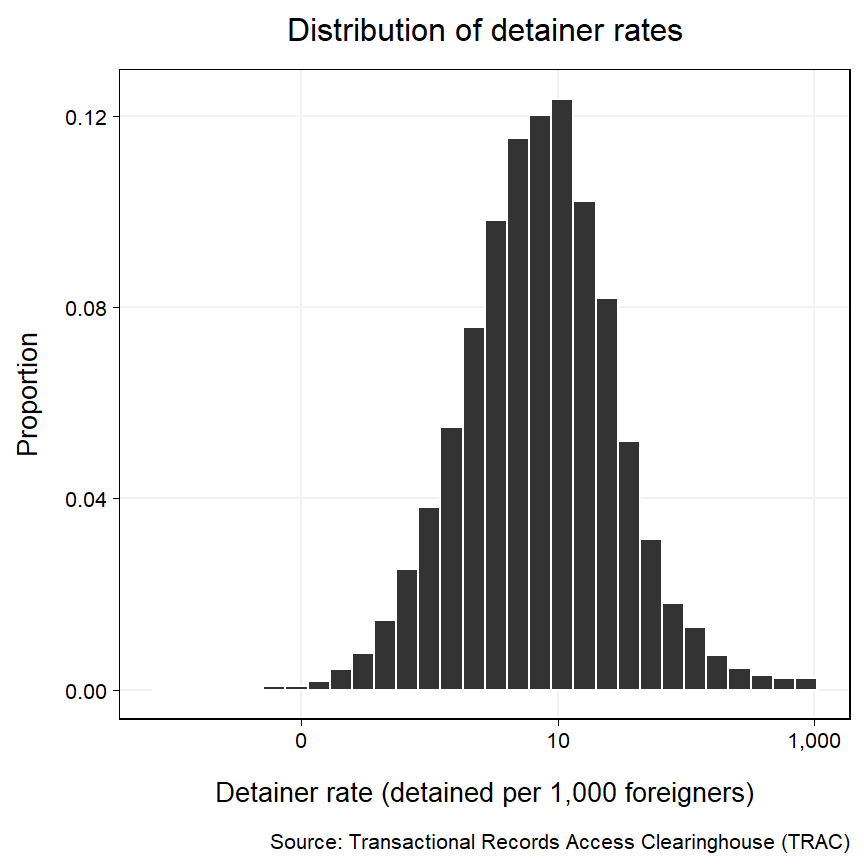
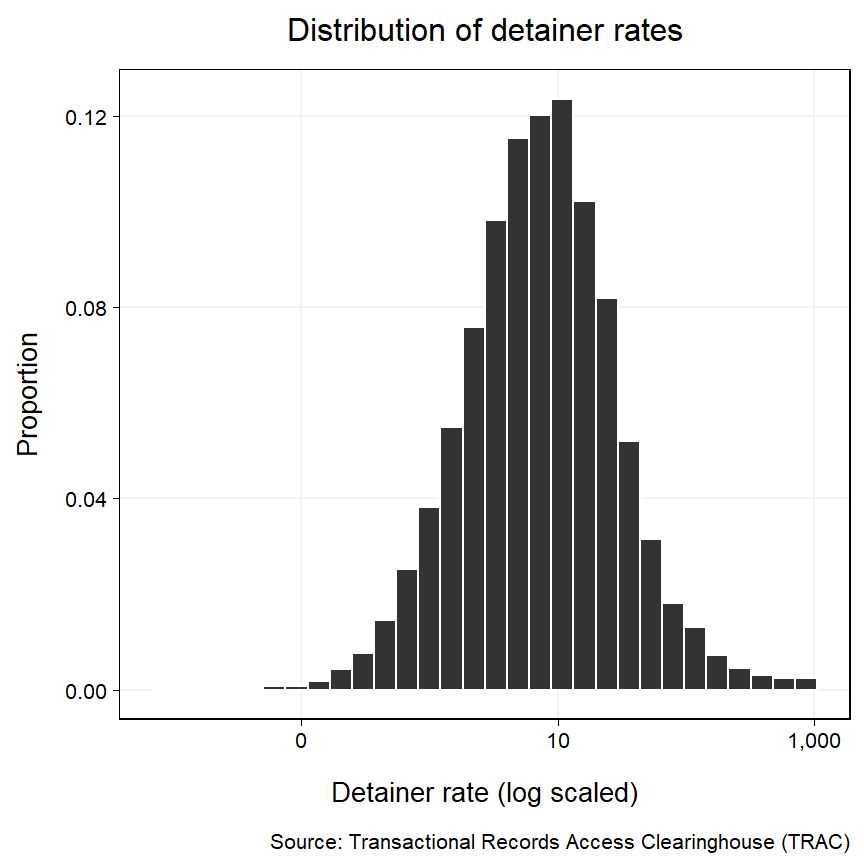
Added "(log scale)" to graphs reflecting the detainer rate; Added missing description of the bivariate plot.

Changed region(s): [[0.25, 0.9062, 0.875, 0.9375]]

diff --git a/index.html b/index.html
@@ -1572,11 +1572,13 @@ The graph below plots ideal point preferences towards immigration policy (<span 
 <div class="layout-chunk" data-layout="l-body">
 <p><img src="index_files/figure-html5/unnamed-chunk-3-1.png" width="432" style="display: block; margin: auto;" /></p>
 </div>
+<p>The bivariate plot suggests that there exists a positive relationship between increasingly restrictive ideal point preferences towards immigration policy, and the immigrant detainer rate among county sheriff offices.
+Regression analyses will offer more detailed information about this seemingly positive association.</p>
+<!-- * REGRESSION RESULTS (Table(s) or plot(s)) -->
+<h3 id="regression-results">Regression results</h3>
 <p>Results from two regression models are below.
 The first is a bivariate model, which regresses the detainer rate on ideal point preferences.
 The second is a mutlivariate model which includes county-level covariates, like the proportion of foreigners and the proportion of unemployed labor force participants, and a binary indicator for whether the county sheriff’s election was competitive or not.</p>
-<!-- * REGRESSION RESULTS (Table(s) or plot(s)) -->
-<h3 id="regression-results">Regression results</h3>
 <p>Regression results show that a statistically significant, positive correlation exists between a county’s immigration policy preferences, and their rate of immigrant detention.</p>
 <div class="layout-chunk" data-layout="l-body">
 <table class="table" style="margin-left: auto; margin-right: auto;">
